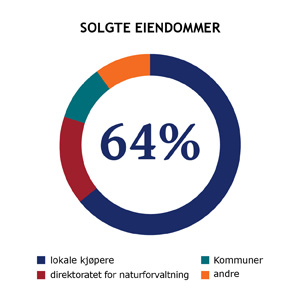
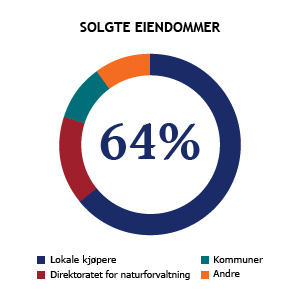
siste korr

diff --git a/v2/php/styrets-aarsberetning.php b/v2/php/styrets-aarsberetning.php
@@ -53,10 +53,10 @@
                         Statskog SF er et statsforetak eid av Landbruks- og matdepartementet. Foretaket har 16 kontorer og har hovedkontor i Namsos i Nord-Trøndelag. Statskog er Norges største grunneier, og driver og utvikler eiendommer på om lag 60 millioner dekar. Dette tilsvarer om lag 20 prosent av arealet i Norge. Foretaket driver med skogbruk, jakt og fiske, arealutleie samt utvikling av energi-, areal- og mineralressurser. -->
                         <p><b>Sentrale forhold i 2012</b><br>
                         Kjøpet av Orklas skogeiendommer i 2010 var det største skogkjøpet i Norge i nyere tid, og et strategisk og forretningsmessig viktig grep for Statskog. Styrets oppfatning er at foretakets samlede tømmeravvirkning etter skogkjøpet ytterligere har befestet Statskogs posisjon som en viktig, forutsigbar og langsiktig leverandør av virke til trebasert industri.
-                        </p>Statskog har i 2012 innfridd styrets forventninger og mål til foretakets drift og økonomi. Skogkjøpet fra Orkla i 2010 var et strategisk viktig grep for Statskog. Arbeidet med å integrere eiendommene i den operative virksomheten har gått som planlagt.
+                        </p>Statskog har i 2012 fortsatt vært preget av omstillingsarbeid og integrasjon av de innkjøpte selskapene. Arbeidet med å integrere de nye eiendommene i Statskogs operative virksomhet har gått som planlagt.
                         <p>Arronderingssalget som ble vedtatt av Stortinget, hvor Statskog skal gjennomføre et omfattende salg av spredte skogeiendommer, har gitt foretaket muligheten til å effektivisere driften, og foretaket er i rute med dette arbeidet.</p>
                         <p>Statskog har hatt tilfredsstillende lønnsomhet i skogbruket i året som har gått. Styret er av den oppfatning at med en robust driftsmodell og lave driftskostnader, så vil skogbruket fortsatt være lønnsomt fremover, men det vil være viktig å følge strukturendringene i markedet fremover.</p>
-                        <p>Den systematiske satsingen på utvikling av foretakets kraftressurser har begynt å gi resultater. Det er så langt gitt konsesjon på tre prosjekter som utnytter foretakets fallressurser, og et av prosjektene, Muoidejohka Kraft AS, vil starte kraftproduksjon i 2013. Dette kraftverket ligger i Beiarn kommune og eies av Statskog Energi AS sammen med Småkraft AS.</p><p>Foretaket forventer flere konsesjoner i tiden som kommer. Åtte prosjekt er under behandling hos NVE og 29 prosjekter ligger i kø hos NVE. De fleste prosjektene er småkraftprosjekter. Foretaket har i 2012 innfridd styrets forventninger og mål til foretakets operative drift og økonomi.</p>
+                        <p>Den systematiske satsingen på utvikling av foretakets kraftressurser har begynt å gi resultater. Det er så langt gitt konsesjon på tre prosjekter som utnytter foretakets fallressurser, og et av prosjektene, Muoidejohka Kraft AS, vil starte kraftproduksjon i 2013. Dette kraftverket ligger i Beiarn kommune og eies av Statskog Energi AS sammen med Småkraft AS.</p><p>Foretaket forventer flere konsesjoner i tiden som kommer. Åtte prosjekt er under behandling hos NVE og 29 prosjekter ligger i kø hos NVE. De fleste prosjektene er småkraftprosjekter.</p><p>Foretaket har i 2012 innfridd styrets forventninger og mål til foretakets operative drift og økonomi.</p><p>De største risikofaktorene som vil kunne påvirke Statskogs lønnsomhet i årene fremover er etterspørsel og priser på tømmer, og kraftprisene som påvirker foretakets inntekter fra utnyttelse av vann- og vindressurser.</p>
                         <p><b>Redegjørelse for årsregnskapet</b><br>
                         <span class="blue">Resultatregnskapet</span><br>
                         Konsernet Statskog hadde en brutto omsetning på 443,7 millioner kroner i 2012, og et driftsresultat på 160,2  millioner kroner. Morselskapet Statskog SF hadde en brutto omsetning på 380,5 millioner kroner. Konsernets totalkapital var 2 210,5 millioner kroner per 31.12.2012. Egenkapitalen utgjorde 1 686,9 millioner kroner.</p>
@@ -65,19 +65,16 @@
                         <p>Statskogs øvrige virksomhet er i mindre grad påvirket av kortsiktige markedsforhold. Statskog satser på å utvikle vann- og vindkraftressursene som foretaket rår over. Arbeidet skjer i samarbeid med andre grunneiere og etablerte kraftselskaper. Statskog vil få inntekter fra dette arbeidet, både som fallrettseier og medeier. I årene som kommer vil resultatandelen fra denne delen av virksomheten øke vesentlig.</p>
                         <p>De løpende inntektene fra jakt- og fiske har utviklet seg som forventet i 2012, med en liten reduksjon i inntektene fra småviltjakt. Det var varierende rypeforekomster høsten 2012.</p>
                         <p>I 2012 har selskapet hatt store engangsinnbetalinger knyttet til salg av spredte skogteiger og skogvernerstatninger. Foretaket har benyttet disse ekstrainntektene til å redusere selskapets langsiktige gjeldsbelastning med 100 millioner kroner. Foretakets likviditet er således ikke vesentlig endret i løpet av 2012.</p>
-                        <p><span class="blue">Kontantstrøm</span><br>
-                        Den løpende driften i Statskog gir en god positiv kontantstrøm. 
-                        I 2012 har selskapet hatt store engangsinnbetalinger knyttet til salg av spredte skogteiger og skogvernerstatninger. Foretaket har benyttet disse ekstrainntektene til å redusere selskapets langsiktige gjeldsbelastning med 100 millioner kroner. Foretakets likviditet er således ikke vesentlig endret i løpet av 2012.</p>
                         <p><span class="blue">Balanse</span><br>
                         Statskogs balanse er preget av høy egenkapitalandel, liten kortsiktig gjeld og god likviditet.</p><p>Egenkapitalandelen i konsernet var på 76,3 prosent ved utgangen av 2012, en økning fra 71,6 prosent året før.</p>
                         <p><b>Fortsatt drift</b><br>
-                        Årsregnskapet er avlagt under forutsetning om fortsatt drift jfr. Regnskapslovens § 3-3. Det bekreftes at disse forutsetningene er til stede. Styret legger til grunn forutsetning for fortsatt drift ved avleggelsen av regnskapet.</p>
+                        Årsregnskapet er avlagt under forutsetning om fortsatt drift jf. regnskapslovens § 3-3. Det bekreftes at disse forutsetningene er til stede. Styret legger til grunn forutsetning for fortsatt drift ved avleggelsen av regnskapet.</p>
                         <p><b>Eierstyring og selskapsledelse – styrets arbeid</b><br>
                         Styrets arbeid er basert på statens prinsipper for god eierstyring og selskapsledelse. Prinsippene gir retningslinjer som klargjør rolledelingen mellom eier, styret og ledelsen i Statskog SF. Statens prinsipper for eierstyring og selskapsledelse bygger på Norsk anbefaling for eierstyring og selskapsledelse. Anbefalingen er brukt og gjelder så langt den passer iht. statsforetaksloven og Statskogs vedtekter.  Gjeldende prinsipper for eierstyring og virksomhetsledelse finnes på foretakets hjemmesider <a href="http://www.statskog.no">www.statskog.no</a>.</p>
                         <p>Styret gjennomførte sju styremøter i 2012, hvorav en telefonkonferanse.</p>
                         <p><b>Retningslinjer for fastsettelse av lønn og annen godtgjørelse til ledende ansatte</b><br>
                         Styret i Statskog SF mener de ansatte er foretakets viktigste ressurs, og er opptatt av å tilby konkurransedyktige vilkår slik at foretaket tiltrekker seg og beholder dyktige medarbeidere. Lederlønningene skal være konkurransedyktige, men foretaket skal ikke være lønnsledende.
-                        Styret erklærer at lederlønnspolitikken og retningslinjene for lederlønnsfastsettelse som foretaksmøtet vedtok 15. juni 2012, er blitt etterlevd i 2012 innenfor de rammene retningslinjene gir. Det vises til note 3 i årsregnskapet for ytterligere informasjon.</p>
+                        </p><p>Styret erklærer at lederlønnspolitikken og retningslinjene for lederlønnsfastsettelse som foretaksmøtet vedtok 15. juni 2012, er blitt etterlevd i 2012 innenfor de rammene retningslinjene gir. Det vises til note 3 i årsregnskapet for ytterligere informasjon.</p>
                         <p><b>Arbeidsmiljø og personal</b><br>
                         Statskog er en inkluderende arbeidslivsbedrift. Arbeidet med helse, miljø og sikkerhet drives i samsvar med lover og forskrifter. Det foreligger et overordnet internkontrollsystem for virksomheten samlet, og for de enkelte deler av driften, hvor ansvarsforhold og rutiner er beskrevet. Foretaket avgir en årlig HMS-rapport med faste sjekkpunkter på om arbeidet drives som foreskrevet og etter de målsettingene som er satt.</p>
                         <p>I 2012 har foretaket arbeidet med gjennomgang og revidering av eksisterende internkontrollsystem med fokus på dokumentasjon og system for melding og håndtering av avvik. Et nytt verktøy vil bli tatt i bruk i 2013. Det er gjennomført risikovurderinger tilknyttet alenearbeid og identifisert tiltak i forhold til kartlagt risiko.</p>
@@ -112,10 +109,11 @@
                                 <td align="right">109 010</td>
                             </tr>
                             <tr class="line-over-under" style="font-weight: bold;">
-                                <td>Total disponert</td>
+                                <td>Totalt disponert</td>
                                 <td align="right">137 710</td>
                             </tr>
                         </table>
+                        <img src="../img/Signaturer.jpg" />
                     </div>
                         </div>    
                     </div>

diff --git a/v2/php/adm-dir-har-ordet.php b/v2/php/adm-dir-har-ordet.php
@@ -57,6 +57,7 @@
                             </p><p>Innenfor energiområdet begynner nå Statskog å høste gevinster av systematisk arbeid over flere år. I 2012 startet byggingen av det første småkraftverket Statskog er medeier i. Planlagt produksjonsstart er høsten 2013.  Statskog har nå fått fire vannkraftkonsesjoner og har om lag 40 konsesjonssøknader til behandling hos NVE. I 2012 fikk vi også den første konsesjonen for vindkraftproduksjon. På energiområdet samarbeider Statskog med både energiselskaper og med private grunneiere.</p>
                             <p>Som fellesskapets grunneier er det viktig for Statskog fortsatt å være en garantist for allmennhetens tilgang til jakt og fiske. Vår forvaltning skal, også på jakt- og fiskeområdet, være kunnskapsbasert. Derfor engasjerer vi oss i forskning. Samtidig er vi opptatt av å ha en god dialog med relevante aktører, som for eksempel Norges Jeger og Fiskerforbund. Enhver som følger debatten om rypejakta i mediene vet at mange mener mye forskjellig om hvordan en best skal forvalte bestanden. Rypebestanden synker mens antallet jegere øker. Statskog er opptatt av i dialog med omverdenen å gjennomføre en forvaltning som ikke truer rypebestanden.</p>
                             <p>Statskog har mange spennende utfordringer framover. For å bli enda bedre til å løse de oppgaver foretaket er satt til, satser vi mye på utvikling og deling av organisasjonens og den enkelte ansattes kompetanse. Jeg opplever at vi har en svært utviklingsorientert organisasjon med en imponerende omstillingsevne. Jeg føler meg derfor trygg på at Statskog også i tiden som kommer vil levere gode resultater til fellesskapets beste.</p>
+                            <p><i>Øistein Aagesen, administrenede direktør</i></p>
                             </div>
                         </div>    
                     </div>
@@ -65,7 +66,8 @@
                             &nbsp;
                             <div class="inner-box-front">
                                 <!--<a href="solgte-arealer.php"><img src="../img/grafer/Grafer3-03.jpg" width="260" /></a> -->
-                            	<a href="solgte-arealer.php"><img src="../img/grafer/Grafer3-01.jpg" width="260" /></a>
+                                <a href="solgte-arealer.php"><img src="../img/grafer/Grafer3-03.jpg" width="280" /></a>
+                            	<a href="solgte-arealer.php"><img src="../img/grafer/Grafer3-01.jpg" width="280" /></a>
                             	<!-- <a href="45-energiprosjekter.php"><img src="../img/Graf01.png" width="260" /></a> -->
                             	
                             </div>

diff --git a/v2/php/reindriftsomrader.php b/v2/php/reindriftsomrader.php
@@ -49,13 +49,27 @@
                  <div id="left-container" style="float: left;">
                     <div class="content-box">
                         <div class="inner-box-front">
-                            
+                            <h2>Reindriftsområder</h2>
+                            <div class="border-down">&nbsp;</div>
+                            Store deler av Statskogs arealer er reinbeiteområder.  
+                        </div>
+                    </div>
+                    <div class="content-box">
+                        <div class="inner-box-front">
+                            <iframe width="600" height="400" frameborder="0" scrolling="no" marginheight="0" marginwidth="0" src="https://statskog.maps.arcgis.com/home/webmap/embedViewer.html?webmap=232da90c81f94e6aab7dc5daf8248d4a&amp;extent=-7.9253,59.4285,41.5631,70.7036"></iframe>
                         </div>
                     </div>
                 </div>
                 <div id="right-container" style="float: right;">
                     <div class="content-box-right">
-                        &nbsp;
+                        <div class="inner-box-front">
+                            <img src="../img/statskog-1-2-3.jpg" />
+                            <a href="film-statskogs-utleiehytter.php"><img src="../img/front_eiendom2.jpg" /></a><br>
+                            <!-- <a href="#"><img src="img/front_energi2.jpg" /></a><br> -->
+                            <a href="film-statskogs-skogbruk.php"><img src="../img/front_skog2.jpg" /></a><br>
+                            <a href="film-toppjakt.php"><img src="../img/front_friluftsliv2.jpg" /></a>
+                        </div>
+                       &nbsp;
                     </div>
                 </div>
                 <div style="clear: both;"></div>

diff --git a/v2/php/solgte-arealer.php b/v2/php/solgte-arealer.php
@@ -66,10 +66,8 @@
                     <div class="content-box-right">
                         <div class="inner-box-front">
                             &nbsp;
-                            
-                                <a href="solgte-arealer.php"><img src="../img/solgte eiendommer.jpg" width="260" /></a>
-                                <a href="solgte-arealer.php"><img src="../img/kjopere.jpg" width="260" /></a>
-                                <!-- <a href="45-energiprosjekter.php"><img src="../img/Graf01.png" width="260" /></a> -->
+                            <a href="solgte-arealer.php"><img src="../img/grafer/Grafer3-03.jpg" width="280" /></a>
+                                <a href="solgte-arealer.php"><img src="../img/grafer/Grafer3-01.jpg" width="280" /></a>
                                 
                             </div>
                         </div>

diff --git a/v2/php/organisasjonskart.php b/v2/php/organisasjonskart.php
@@ -58,10 +58,10 @@
                 <div id="right-container" style="float: right;">
                     <div class="content-box-right">
                         <img class="image-rounded" src="../img/adm-dir-maal.jpg" width="300" />
-                        <div style="text-align: left;">&nbsp;<span style="font-size: 8px">foto: Øistein Aagesen</span></div>
+                        <!-- <div style="text-align: left;">&nbsp;<span style="font-size: 8px">Adm. dir: Øistein Aagesen</span></div> -->
                         <div class="inner-box-front">
 
-                            <p><a class="front" href="adm-dir-har-ordet.php">Administrerende direktør</a></p>
+                            <p><a class="front" href="adm-dir-har-ordet.php">Administrerende direktør<br>Øistein Aagesen</a></p>
                         </div>
                     </div>
                 </div>

diff --git a/v2/php/menu.php b/v2/php/menu.php
@@ -41,7 +41,7 @@
                 <div><a href="<?php echo $prefix; ?>produktiv-skog.php">Produktiv skog</a></div>
                 <div><a href="<?php echo $prefix; ?>skogsbilveier.php">Skogsbilveier</a></div>
                 <div><a href="<?php echo $prefix; ?>solgte-arealer.php">Solgte arealer</a></div>
-                <!--<div><a href="<?php echo $prefix; ?>reindriftsomrader.php">Reindriftsområder</a></div>-->
+                <div><a href="<?php echo $prefix; ?>reindriftsomrader.php">Reindriftsområder</a></div>
                 <div><a href="<?php echo $prefix; ?>oversikt-over-vernede-omraader.php">Vernede områder</a></div>
                 <!-- <div><a href="<?php echo $prefix; ?>energiprosjekter.php">Energiprosjekter</a></div> -->
                 <!-- <div><a href="<?php echo $prefix; ?>arealinndeling-storviltjakt.php">Arealinndeling storviltjakt</a></div> -->

diff --git a/v2/index.php b/v2/index.php
@@ -18,7 +18,7 @@
         <!-- <script src="js/vendor/modernizr-2.6.2.min.js"></script> -->
         <style>
             #top .top-bg {
-                background: url(img/top/Forside.jpg) 50% 0 no-repeat;
+                background: url(img/top/forside_ny.jpg) 50% 0 no-repeat;
                 height: 400px;
             }
         </style>
@@ -101,7 +101,7 @@
                         <div class="content-box-front">
                             <img class="image-rounded" src="img/front-historie.jpg" width="310" />
                             <div class="inner-box-front">
-                                <a class="front" href="php/historie.php">Historie</a>
+                                <a class="front" href="php/historie.php">Vår historie</a>
                             </div>
                         </div>
                     </div>

diff --git a/v2/php/sentrale-mal-strategier.php b/v2/php/sentrale-mal-strategier.php
@@ -75,7 +75,7 @@
                     <div class="content-box-right">
                         <img class="image-rounded" src="../img/adm-dir-maal.jpg" width="300" />
                         <div class="inner-box-front">
-                            <p><a class="front" href="adm-dir-har-ordet.php">Administrerende direktør</a></p>
+                            <p><a class="front" href="adm-dir-har-ordet.php">Administrerende direktør<br>Øistein Aagesen</a></p>
                         </div>
                     </div>
                 </div>

diff --git a/v2/php/oversikt-over-vernede-omraader.php b/v2/php/oversikt-over-vernede-omraader.php
@@ -65,7 +65,7 @@
                     </div>
                     <div class="content-box-right">
                         <div class="inner-box-front" style="text-align: left;">
-                            <span class="sitat">DET ER DIREKTORATET FOR NATURFORVALTNING SOM ER VERNEMYNDIGHETEN. STATSKOGS ROLLE ER Å VÆRE GRUNNEIER.</span>
+                            <img src="../img/grafer/Grafer3-19.jpg" width="280" />
                         </div>
                     </div>
                 </div>

diff --git a/v2/php/regnskap.php b/v2/php/regnskap.php
@@ -1018,6 +1018,7 @@
                               <td class="right">54 927</td>
                            </tr>
                         </table>
+                        <div style="text-align: center"><img src="../img/Signaturer.jpg" /></div>
                         </div>
                     </div>
                 </div>
